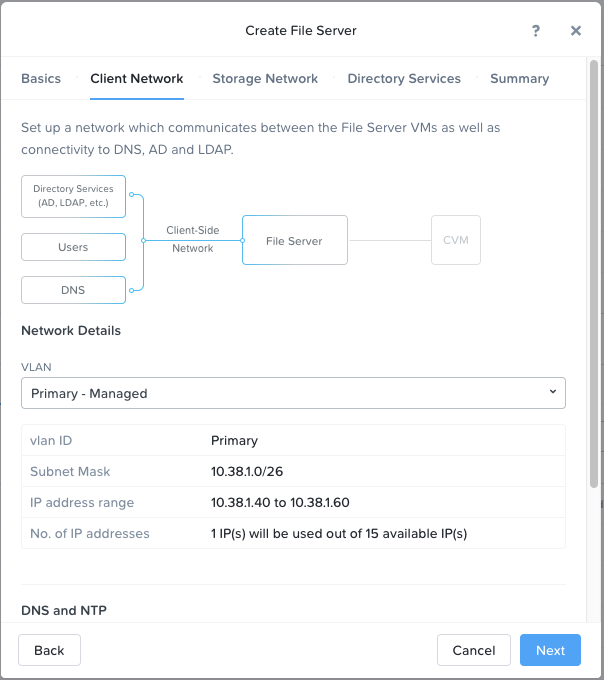
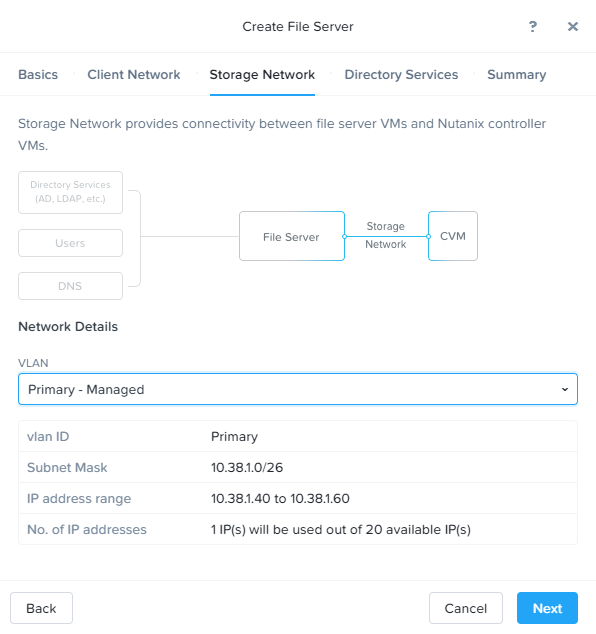
MP and FB update
Added Multiprotocol and File Blocking to lab.  Updates for 3.6.

diff --git a/index.rst b/index.rst
@@ -15,7 +15,7 @@
 Files
 -----
 
-*The estimated time to complete this lab is 60 minutes.*
+*The estimated time to complete this lab is 75 minutes.*
 
 Overview
 ++++++++
@@ -39,7 +39,7 @@ Deploying Files
 
    .. figure:: images/1.png
 
-   For the purpose of saving time, the Files 3.5 package has already been uploaded to your cluster. Files binaries can be downloaded directly through Prism or uploaded manually.
+   For the purpose of saving time, the Files 3.6 package has already been uploaded to your cluster. Files binaries can be downloaded directly through Prism or uploaded manually.
 
    .. figure:: images/2.png
 
@@ -97,7 +97,7 @@ Deploying Files
 
 #. Select the **Primary - Managed** VLAN for the Storage Network.
 
-   Each Files VM will consume a single IP on the storage network, plus 1 additional IP for the cluster.
+   Each Files VM will consume a single IP on the storage network.
 
    .. figure:: images/8.png
 
@@ -141,11 +141,6 @@ Deploying Files
 #. Download the sample files for File Analytics to the Tools VM:
 
    - `https://peerresources.blob.core.windows.net/sample-data/SampleData_Small.zip <https://peerresources.blob.core.windows.net/sample-data/SampleData_Small.zip>`_
-
-#. Download the File Analytics json and qcow files to the Tools VM
-
-   - `nutanix-file-analytics-1.0.1-metadata.json <http://10.42.194.11/workshop_staging/nutanix-file-analytics-1.0.1-metadata.json>`_
-   - `nutanix-file-analytics-1.0.1.qcow2 <http://10.42.194.11/workshop_staging/nutanix-file-analytics-1.0.1.qcow2>`_
 
 #. Upon completion, return to **Prism > File Server** and select the *Initials*\ **-Files** server and click **Protect**.
 
@@ -377,8 +372,134 @@ You will first provision a CentOS VM to use as a client for your Files export.
 
    Note that the utilization data is updated every 10 minutes.
 
+Selective File Blocking
++++++++++++++++++++++++
+
+In this exercise you will configure Files to block specific file extensions for the file server and the Marketing share. 
+
+#. In **Prism** > **File Server** > Select your file server and click **Update** > then click **Blocked File Types**
+
+   .. figure:: images/47.png
+   
+#. Under **Blocked File Types** enter a comma separated list of extensions like .flv,.mov and click **Save**
+
+   .. figure:: images/48.png
+   
+#. Open a PowerShell window by clicking on the **PowerShell icon** on the taskbar. Enter the following command where you will see an access denied error message: 
+
+   .. code-block:: bash
+     
+	 new-item \\xyz-files.ntnxlab.local\marketing\MyMovie.flv
+   
+   .. figure:: images/49.png
+   
+#. In **Prism** > **File Server** > **Share/Export** > click on the Marketing share and select **Update**
+
+   .. figure:: images/50.png
+	
+#. Select **Next** to get to the **Settings** page.
+
+#. Check **Blocked File Types** and enter .none as a file extension. 
+
+   .. figure:: images/51.png
+   
+#. Select **Next** then **Save** on the **Summary** page to complete the update. 
+
+#. Blocked file type settings at the share level override the server level setting.  Using PowerShell issue the same command as the previous step.  The command will now complete successfully.
+
+   .. figure:: images/52.png
+
+Multi-protocol
+++++++++++++++
+
+In this exercise you will configure an existing SMB share to also support NFS. Enabling multi-protocol access requires you to configure user mappings and define the native and non-native protocol for a share.  
+
+Configure User Mappings
+.......................
+
+A Nutanix Files share has the concept of a native and non-native protocol.  All permissions are applied using the native protocol.  
+Any access requests using the non-native protocol requires a user or group mapping to the permission applied from the native side.
+There are several ways to apply user and group mappings including rule based, explicit and default mappings.  You will first configure a default mapping.
+
+#. In **Prism** > **File Server** > Select your file server and click **Protocol Management** > then click **User Mapping**
+
+   .. figure:: images/53.png
+   
+#. In the **User Mapping** dialog click **Next** at least two times, until you are on the **Default Mapping** page. 
+
+#. From the **Default Mapping** page choose both **Deny access to NFS export** and **Deny access to SMB share** as the defaults for when no mapping is found.
+
+   .. figure:: images/54.png
+   
+#. Complete the initial mapping by choosing **Next** and then **Save** on the **Summary** page. 
+
+#. In **Prism** > **File Server** > **Share/Export** > click on the Marketing share and select **Update**.
+
+#. From the **Basics** page check the box at the bottom which says **Enable multiprotocol access for NFS**.
+
+   .. figure:: images/55.png
+   
+#. Click **Next** then from the **Settings* page check **Simultaneous access to the same files from both protocols**.
+
+   .. figure:: images/56.png
+
+#. Click **Next** and then **Save** from the **Summary** page. 
+
+#. Connect via SSH to the *Initials*\ -NFS-Client VM.
+
+#. Execute the following commands:
+
+     .. code-block:: bash
+
+       [root@CentOS ~]# mkdir /filesmnt/marketing
+       [root@CentOS ~]# mount.nfs4 <Intials>-Files.ntnxlab.local:/Marketing /filesmnt/marketing
+       [root@CentOS ~]# dir /filesmnt/marketing
+       dir: cannot open directory /filesmnt/marketing: Permission denied
+       [root@CentOS ~]#
+	  
+   .. note:: The mount operation is case sensitive.  
+
+Because the default mapping is to deny access the Permission denied error is expected.  You will now add an explicit mapping to allow access to the non-native NFS protocol user. 
+We will need to get the user ID (UID) to create the explicit mapping.
+
+#. Execute the following command and take note of the UID:
+
+     .. code-block:: bash
+
+       [root@CentOS ~]# id
+       uid=0(root) gid=0(root) groups=0(root) context=unconfined_u:unconfined_r:unconfined_t:s0-s0:c0.c1023
+       [root@CentOS ~]#
+
+#. In **Prism** > **File Server** > Select your file server and click **Protocol Management** > then click **User Mapping**
+
+#. Click **Next** until you are on the **Explicit Mapping** page 
+
+#. Click **+ Add one-to-one mapping**
+
+#. Fill out the following fields:
+
+   - **SMB Name** - ntnxlab\\administrator
+   - **NFS ID** - UID from previous step (0 if root)
+   - **User/Group** - User
+
+   .. figure:: images/57.png
+
+#. Click **Save** under the **Actions** column
+
+#. Click **Next** until the **Summary** page and then click **Save**
+
+#. Click **Close**
+
+#. Go back to the NFS-Client VM and execute the following:
+
+     .. code-block:: bash
+
+       [root@CentOS ~]# dir /filesmnt/marketing
+       MyMovie.flv
+       [root@CentOS ~]#
+
 File Analytics
-+++++++++++++++++
+++++++++++++++
 
 In this exercise you will deploy the File Analytics VM and scan the existing shares to build out the dashboard.  You will also create anomaly alerts and view the audit details for your file server instance.
 
@@ -534,17 +655,17 @@ In this exercise you will deploy the File Analytics VM and scan the existing sha
 
    .. note:: The Capacity Trend dashboard panel updates every 24 hrs.
 
-New with Files 3.5
+New with Files 3.6
 ++++++++++++
 
-With the recent Files 3.5 release we have introduced:
+With the recent Files 3.6 release we have introduced:
 
-- Support for NFSv3
-- Support for Self-Service File Restore for NFS (currently supported for SMB shares)
-- Support for Change File Tracking (CFT) Backup for NFS (currently supported for SMB shares)
-- Support for Nutanix software-based Data-At-Rest Encryption
-- Support for multi-protocol access to shares (Now GA with Files 3.5.1)
-- File Analytics, a comprehensive view into Files usage for the purposes of insights into file system data, file and user audit trails and anomaly detection (Now GA with Files 3.5.2 and File Analytics 2.0)
+- NearSync DR support
+- In-flight Encryption for SMB
+- SMB durable handle support
+- Selective file blocking
+- Windows 2019 domain and client support
+- 120TB node support
 
 
 Takeaways
